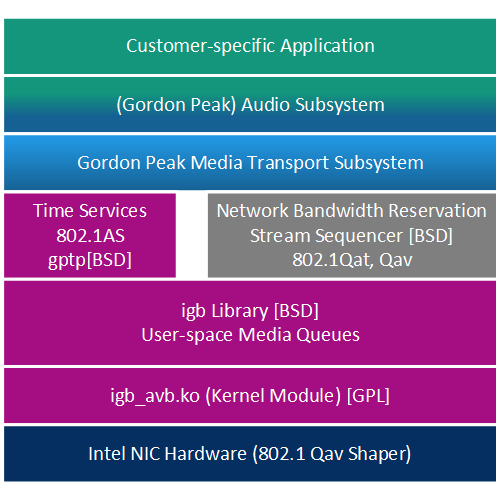
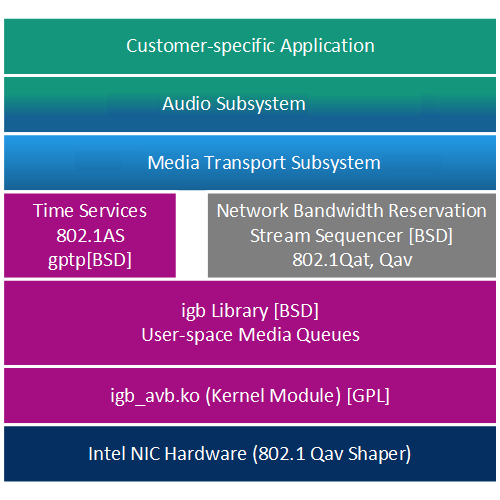
Docs: Updating keywords and cleanup images

Changed region(s): [[0.15, 0.3, 0.84, 0.36], [0.21, 0.18, 0.78, 0.24]]

diff --git a/private/src/avb_configuration_reference/IasAvbConfigExample.cpp b/private/src/avb_configuration_reference/IasAvbConfigExample.cpp
@@ -263,7 +263,7 @@ StreamParamsAlsa SlaveSetupAlsa[] =
 /*
  * The Streamhandler uses a "registry" data base of key/value pairs. Values can be either 64 bit
  * unsigned integer or string values. The entries are used to parameterize the Streamhandler's
- * behavior in multiple ways. A list of customer-relevant parameters can be found in
+ * behavior in multiple ways. A list of user-relevant parameters can be found in
  * IasAvbRegistryKeys.hpp. Registry entry lists can be associated with profiles and/or targets.
  *
  * Depending on the isNum field, the registry entry is either numerical or textual. Either the
@@ -303,7 +303,7 @@ RegistryEntries ExampleSetupRegistry[] =
 TargetParams Targets[] =
 {
     { "GrMrb",    0x1533u, 2u, "eth0", NULL }, // example entry for Gordon Ridge MRB
-    { "MyDevice", 0x157Cu, 1u, "eth0", NULL }  // example entry for customer hardware
+    { "MyDevice", 0x157Cu, 1u, "eth0", NULL }  // example entry for user hardware
 };
 
 //------------------------------------------

diff --git a/private/src/lib_ptp_daemon/IasLibPtpDaemon.cpp b/private/src/lib_ptp_daemon/IasLibPtpDaemon.cpp
@@ -895,7 +895,7 @@ uint64_t IasLibPtpDaemon::getRealLocalTime(const bool force)
            * Basically we should not update time values here if the calculated rate ratio is not reliable.
            * But to keep the default behavior without setting the '-k clockdomain.raw.deviation.unlock'
            * same as the former code as much as possible, we update time values here by default to avoid
-           * causing regressions to a certain customer who has started evaluation with the former code.
+           * causing regressions to a certain user who has started evaluation with the former code.
            */
           mLastLocalTimeforRaw = localTimeForRaw;
           mLastRaw = raw1;

diff --git a/private/src/avb_streamhandler/IasLocalAudioStream.cpp b/private/src/avb_streamhandler/IasLocalAudioStream.cpp
@@ -848,7 +848,7 @@ void IasLocalAudioStream::setClientActive( bool active )
            * The resetBuffers() call at here may change buffer fill level. If ALSA worker has already
            * started reading samples, changing buffer fill level from outside of ALSA worker affects
            * calculation of RX path latency. The fix of 'alsaRxSyncStart = true' can be disabled
-           * by the registry key for GP releases to avoid causing any regression for existing customers.
+           * by the registry key for GP releases to avoid causing any regression for existing users.
            */
         }
         else

diff --git a/public/inc/media_transport/avb_streamhandler_api/IasAvbClockDriverInterface.hpp b/public/inc/media_transport/avb_streamhandler_api/IasAvbClockDriverInterface.hpp
@@ -88,7 +88,7 @@ class __attribute__ ((visibility ("default"))) IasAvbClockDriverInterface
      * after passArguments() of the config library has been called.
      * So the config library has the option of passing confguration
      * values to the clock driver by putting them into the registry.
-     * The key names of all customer-specific registry entries controlling
+     * The key names of all user-specific registry entries controlling
      * the clock driver should start with "clockdriver.config.".
      *
      * If anything other than eIasAvbResultOk is returned by the method,

diff --git a/private/inc/avb_streamhandler/IasAvbStreamHandlerEnvironment.hpp b/private/inc/avb_streamhandler/IasAvbStreamHandlerEnvironment.hpp
@@ -35,7 +35,7 @@ class IasDiaLogger;
  * @brief internal registry keys
  *
  * These are not part of the registry interface, since this interface is public
- * and we don't want to disclose all possible keys to the customer.
+ * and we don't want to disclose all possible keys to the user.
  * ATTENTION: all characters in -k Sting must be in lower case!
  */
 namespace IasRegKeys {

diff --git a/public/doc/01_icd.md b/public/doc/01_icd.md
@@ -15,7 +15,7 @@ The Stream Handler ensures proper AVB packet generation following the IEEE1722 s
 The Stream Handler relies on an implementation of the IEEE802.1AS standard (gPTP) to establish a network-wide reference time base.
 
 @note Please note that this document describes the Reference System only.
-Customer specific manifestations may vary in their available components and features. For customer systems please refer to the documentation accompanying the customer delivery.
+User specific manifestations may vary in their available components and features. For user systems please refer to the documentation accompanying the user delivery.
 
 
 ###############################################################
@@ -36,7 +36,7 @@ The AVB Stream Handler provides the following features:
 * ALSA audio interfaces
 * Video streaming interfaces
 * CommonAPI control interface with D-Bus binding (SOME/IP to follow)
-* Configuration interface enabling the customer to provide its own configuration library
+* Configuration interface enabling the user to provide its own configuration library
 * Supported audio sample rates: 48 kHz and 24kHz
 * AVB audio format: _eIasAvbAudioFormatSaf16_ (AVTP 16 bit)
 * Audio format for ALSA interfaces: _eIasAvbAudioFormatSaf16_
@@ -93,7 +93,7 @@ It provides definitions for _targets_ which comprises target related definitions
 In addition so called _profiles_ are specified defining all variants of streams (including test streams) and registry entries as well.
 
 @note Since the configuration library is project specific, this documentation describes only the reference configuration, see section @ref configuration.
-For customer specific implementations please refer to the delivery documentation for avb_customer_config.
+For user specific implementations please refer to the delivery documentation for avb_customer_config.
 
 
 #################################################################################
@@ -205,7 +205,7 @@ When specifying a maximum of 3000 packets per second, than you'll get:
 ###############################################################
 @subsection class_c Using Stream Reservation Class C
 
-You may need to use a stream reservation class other than A and B. This new class is always called class C (customer specific).
+You may need to use a stream reservation class other than A and B. This new class is always called class C (user specific).
 The traffic streaming and the measurement interval must always be defined according to the amount of traffic that is needed.
 
 To enable Class C according to the AutoCDSFunctionalSpec from AVnu, the measurement interval needs to be set to **1333µs for 48 kHz and 64 samples per packet**
@@ -641,7 +641,7 @@ The ias-media\_transport-avb\_streamhandler-devel package contains a shared libr
 to facilitate the creation of a project-specific configuration plug-in. The library provides a base class that should be used to derive a project-specific class.
 For more information go to @ref configuration and @ref example_systems.
 
-A detailed description on creation of customer-specific libraries can be found in section @ref create_customer_config.
+A detailed description on creation of user-specific libraries can be found in section @ref create_customer_config.
 
 
 ###############################################################
@@ -674,7 +674,7 @@ Basically, the configuration plug-in serves three purposes:
    The configuration plug-in can access all parameters of the Stream Handler invocation that are on the right hand side of the keyword *setup*. The plug-in could also use any other mechanism available to determine configuration options. This includes environment variables, file access, etc. It is up to the plug-in's implementer to determine such mechanisms.
    This task should be done in the context of the passArguments() method that must be implemented by the configuration object.
 2. Set entries in the configuration registry.
-    The plug-in can set textual and/or numerical entries on a key->value basis in a registry database provided by the stream handler. Many settings of the Stream Handler can be controlled that way, the key names are provided in the public header file IasAvbRegistryKeys.hpp. Customers can also create their own keys in order to pass configuration options through to a clock library implementation.
+    The plug-in can set textual and/or numerical entries on a key->value basis in a registry database provided by the stream handler. Many settings of the Stream Handler can be controlled that way, the key names are provided in the public header file IasAvbRegistryKeys.hpp. Users can also create their own keys in order to pass configuration options through to a clock library implementation.
     This task should be done in the context of the passArguments() method that must be implemented by the configuration object. After passArguments() returns, no more entries can be added to the registry.
 3. Use the IasAvbStreamHandlerInterface API to set up the operating environment for the Stream Handler.
     Examples are creating AVB streams and local streams, connecting them and defining the operating parameters for clock recovery. Note that clock recovery settings can only be controlled by the configuration plug-in, not by the API.
@@ -1117,7 +1117,7 @@ receive.idlewait    | 50000000   | idlewait to 50 ms due to video data flow
 
 
 ###############################################################
-@subsection create_customer_config Creation of Customer Configuration Library
+@subsection create_customer_config Creation of User Configuration Library
 
 The PAE team provides customized configuration plug-ins for every variant needed.
 <!--todo to be filled with text -->
@@ -1238,7 +1238,7 @@ Overwrite some target settings, if the actual hardware needs values different fr
     $ ./avb_streamhandler_app setup --help
 
     --help or -h           display list of config module options
-    --profile or -p        specify customer profile context
+    --profile or -p        specify user profile context
     --target or -t         specify target hardware
     --ifname or -n         override target-specific network interface name (e.g. eth0)
     --numstreams or -a     limit number of simultaneous streams to less than listed in the table specified by --system
